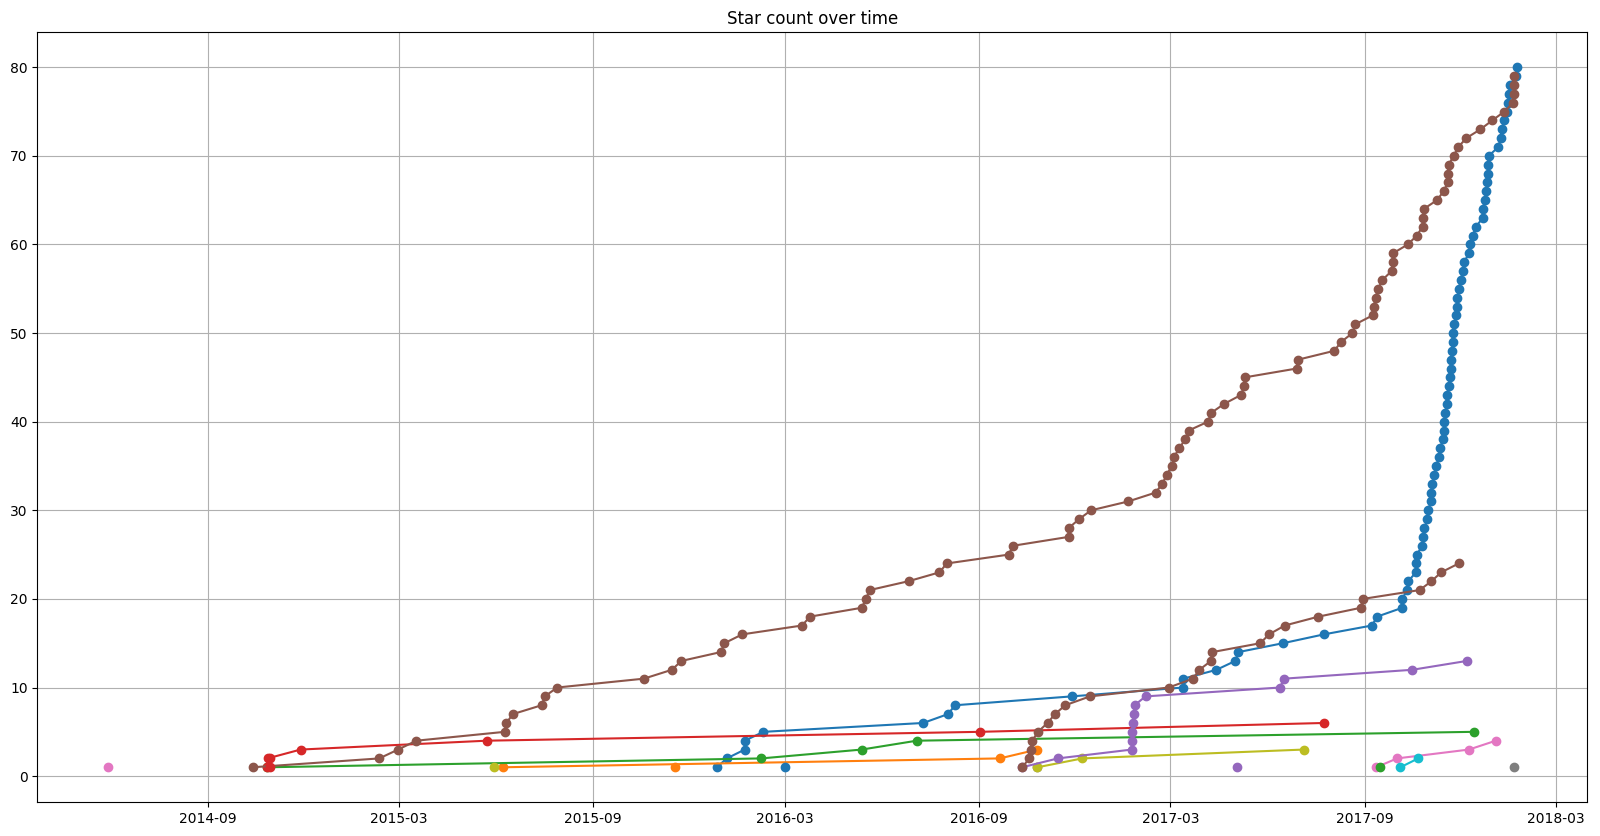
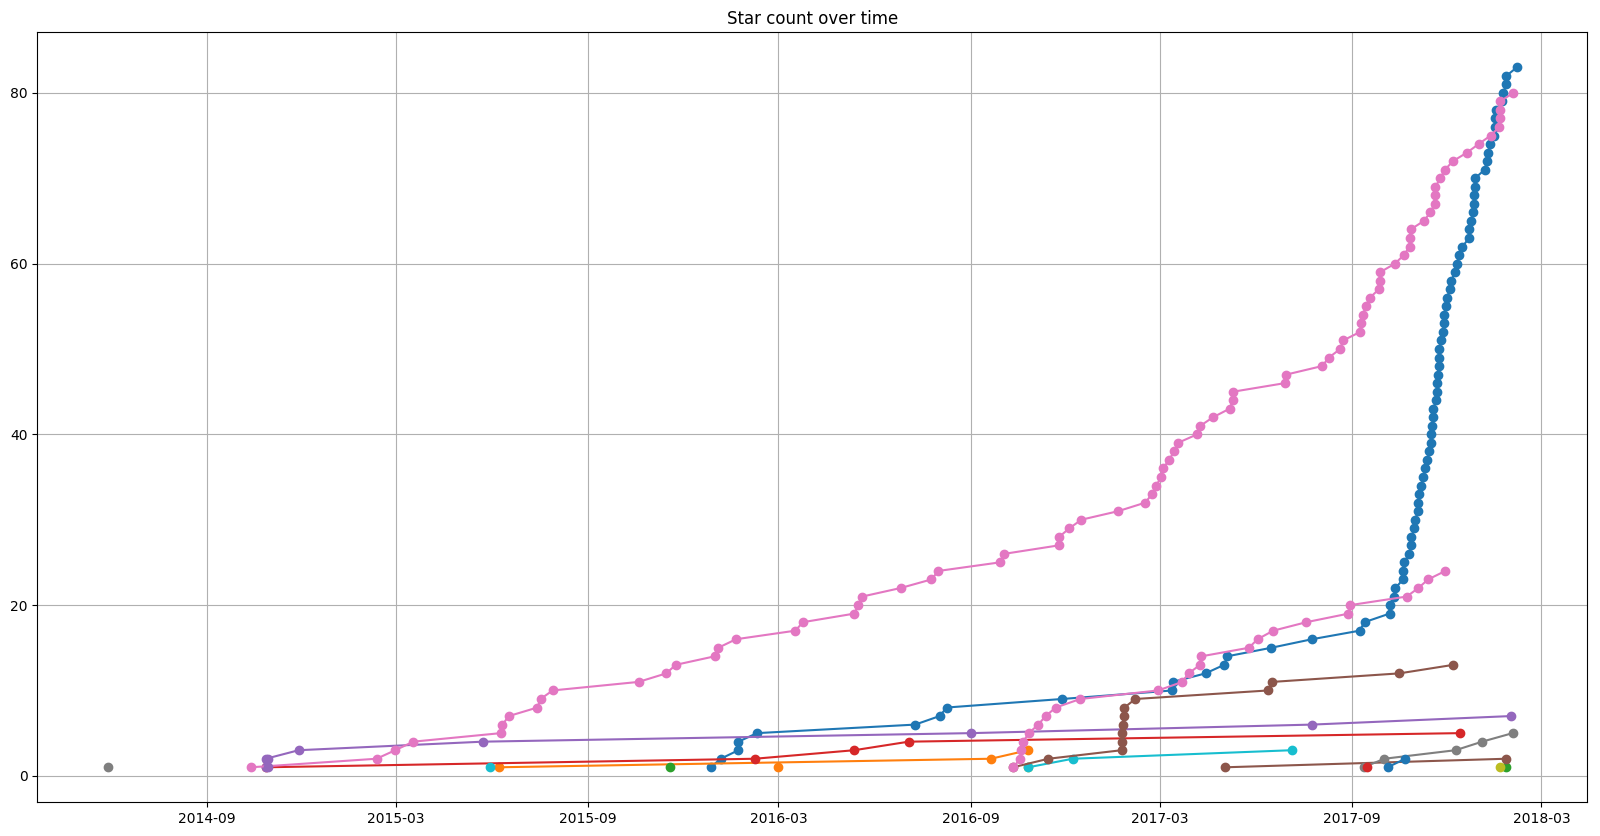
update

diff --git a/README.md b/README.md
@@ -5,11 +5,11 @@
 
 ## Python Packages
 
-* [PyOpenGLng](https://github.com/FabriceSalvaire/PyOpenGLng) 6 :star:</br>
+* [PyOpenGLng](https://github.com/FabriceSalvaire/PyOpenGLng) 7 :star:</br>
 
    An OpenGL CFFI (and ctypes) binding for Python
 
-   Updated on 2017-11-19
+   Updated on 2018-01-30
 
 * [PyDVI](https://github.com/FabriceSalvaire/PyDVI) 5 :star:</br>
 
@@ -37,11 +37,11 @@
 
 ## Python Tools for Developers
 
-* [CodeReview](https://github.com/FabriceSalvaire/CodeReview) 80 :star:</br>
+* [CodeReview](https://github.com/FabriceSalvaire/CodeReview) 83 :star:</br>
 
    CodeReview is a Git GUI tool to perform code review (Diff Viewer) written in Python3 and Qt5.
 
-   Updated on 2018-01-23
+   Updated on 2018-02-05
 
 * [github-map](https://github.com/FabriceSalvaire/github-map)
 
@@ -167,23 +167,23 @@
 
 ## Python for Electronic
 
-* [PySpice](https://github.com/FabriceSalvaire/PySpice) 79 :star:</br>
+* [PySpice](https://github.com/FabriceSalvaire/PySpice) 80 :star:</br>
 
    Simulate electronic circuit using Python and the Ngspice / Xyce simulators
 
-   Updated on 2018-01-20
+   Updated on 2018-02-02
 
-* [PyResistorColorCode](https://github.com/FabriceSalvaire/PyResistorColorCode) 1 :star:</br>
+* [PyResistorColorCode](https://github.com/FabriceSalvaire/PyResistorColorCode) 2 :star:</br>
 
    PyResistorColorCode is a Python module that provides some tools to manage IEC 60062 marking codes for resistors.
 
-   Updated on 2017-11-21
+   Updated on 2018-01-26
 
-* [PyCpuSimulator](https://github.com/FabriceSalvaire/PyCpuSimulator)
+* [PyCpuSimulator](https://github.com/FabriceSalvaire/PyCpuSimulator) 1 :star:</br>
 
    CPU Simulator written in Python
 
-   Updated on 2017-11-20
+   Updated on 2018-01-26
 
 ## Python for Mechanic
 
@@ -209,11 +209,11 @@
 
 ## Python for Pattern Drafting
 
-* [PyValentina](https://github.com/FabriceSalvaire/PyValentina) 4 :star:</br>
+* [PyValentina](https://github.com/FabriceSalvaire/PyValentina) 5 :star:</br>
 
    Python implementation of the Valentina Pattern Making software
 
-   Updated on 2018-01-03
+   Updated on 2018-02-01
 
 ## Python for Music
 
